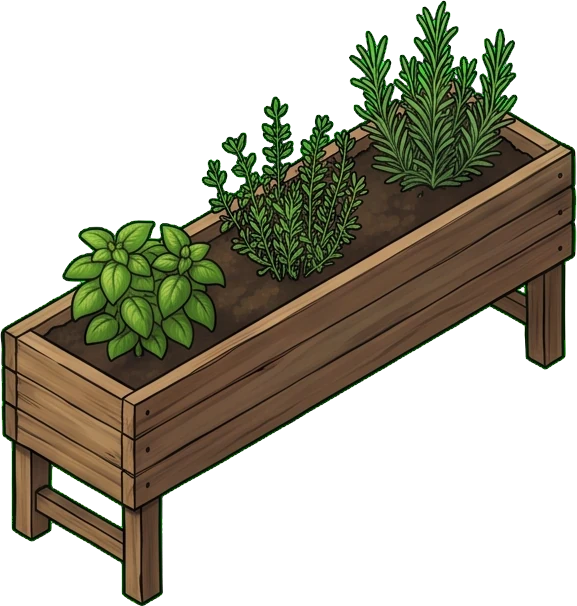
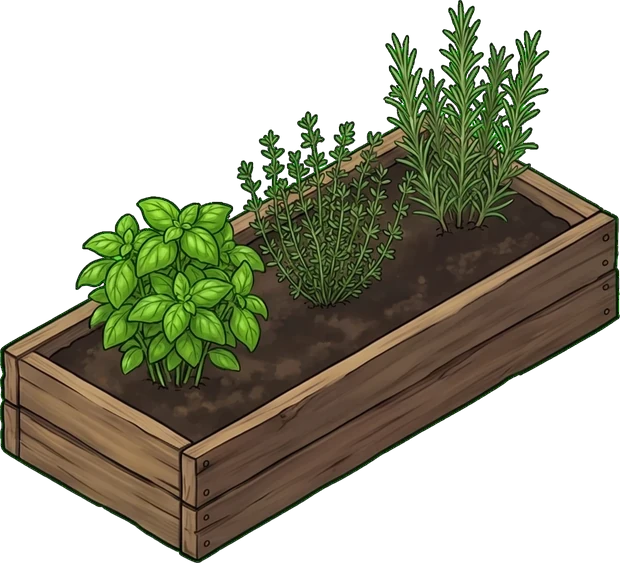
Garden (Cal, v0.73 phone): the herb plot is now the same low wooden bed as the tomato bed, planted with basil, thyme and rosemary (wet and dry art, fit to the same box); at night the shade of outdoor rooms covered only the back half of the floor (the outline left out the front corner), the 'divide' 

diff --git a/quest-board/app/src/20_loft.js b/quest-board/app/src/20_loft.js
@@ -128,7 +128,7 @@ function lfRoomLight(C,uid,t,out){
      instead of tinting a wall-high box of sky */
   var L=out?lfLS():lfInLS(C),N=LF.W,M=LF.D,H=C.noshell===2?(t==="rooftop"&&window.LFSPR&&LFSPR.rfw_t1?60:40):LF.H,U=29.07,res={pre:"",mid:"",post:""},defs="",R=(window.LFRID=(window.LFRID||0)+1),id=function(n){return "lf"+n+uid+"_"+R}/* Cal: shadows vanished for a moment after a buy; ids unique per render, so a repaint never points at filters being swapped out */;
   var floor=[lfP(0,0,0),lfP(N,0,0),lfP(N,M,0),lfP(0,M,0)];
-  var hexIn=out?[lfP(-.2,-.2,-8),lfP(N+.2,-.2,-8),lfP(N+.2,-.2,H+16),lfP(-.2,-.2,H+16),lfP(-.2,M+.2,H+16),lfP(-.2,M+.2,-8)]:C.rsW?[lfP(0,M,H),lfP(0,0,H),lfP(C.rsW,0,H),lfP(C.rsW,0,36),lfP(N,0,36),lfP(N,0,-15),lfP(N,M,-15),lfP(0,M,-15)]:[lfP(0,M,H),lfP(0,0,H),lfP(N,0,H),lfP(N,0,-15),lfP(N,M,-15),lfP(0,M,-15)];
+  var hexIn=out?/* Cal (Garden at night): "a weird divide between the dark and light parts": this outline left out the front floor corner, so the night shade stopped on a straight line across the lawn */[lfP(N+.2,-.2,-8),lfP(N+.2,M+.2,-8),lfP(-.2,M+.2,-8),lfP(-.2,M+.2,H+16),lfP(-.2,-.2,H+16),lfP(N+.2,-.2,H+16)]:C.rsW?[lfP(0,M,H),lfP(0,0,H),lfP(C.rsW,0,H),lfP(C.rsW,0,36),lfP(N,0,36),lfP(N,0,-15),lfP(N,M,-15),lfP(0,M,-15)]:[lfP(0,M,H),lfP(0,0,H),lfP(N,0,H),lfP(N,0,-15),lfP(N,M,-15),lfP(0,M,-15)];
   var hs=lfHull(floor.concat([lfP(0,0,64),lfP(N,0,64),lfP(N,M,64),lfP(0,M,64)]));
   defs+='<clipPath id="'+id("cf")+'"><polygon points="'+floor.map(lfPt).join(" ")+'"/></clipPath><clipPath id="'+id("ci")+'"><polygon points="'+hs.map(lfPt).join(" ")+'"/></clipPath><clipPath id="'+id("hx")+'"><polygon points="'+hexIn.map(lfPt).join(" ")+'"/></clipPath>';
   /* source: sun or moon */
@@ -193,20 +193,21 @@ function lfRoomLight(C,uid,t,out){
     var gk=(src&&src.sun?kk*.5:0)+L.dark*.18*(L.wx==="rain"?.5:1)+(1-L.dark)*(1-L.direct)*.08,gc=src&&src.sun?src.col:(L.dark>.5?"#7f93ff":"#e8f0ff");
     var gid=id("wg"+Math.floor(x0*10));defs+='<radialGradient id="'+gid+'"><stop offset="0" stop-color="'+gc+'" stop-opacity=".9"/><stop offset="1" stop-color="'+gc+'" stop-opacity="0"/></radialGradient>';
     wl+=lfFaceY(x0-.5,0,100,'<ellipse cx="'+(.5*U+26)+'" cy="40" rx="64" ry="66" fill="url(#'+gid+')" opacity="'+lfCl(gk,0,.7).toFixed(2)+'"/>')})}
-  /* ambient multiply with lamp holes */
+  /* ambient multiply with lamp holes. Cal (v0.73 phone, Garden Estate at night): "a weird divide between the dark and light
+     parts": the dark layer was a fixed 1400x1000 box, smaller than the big rooms, so past its edge the floor stayed lit */
   var amb="";
   var hole=function(Ls){return Ls.map(function(q,i){var p=lfP(q[0],q[1],0),pz=lfP(q[0],q[1],q[2]||60),r=q[4]||3,k=lfCl((q[5]||.6)*(.35+L.dark*1.1),0,1);
     var gid=id("lh"+i);defs+='<radialGradient id="'+gid+'"><stop offset="0" stop-color="#000" stop-opacity="1"/><stop offset=".55" stop-color="#000" stop-opacity=".5"/><stop offset="1" stop-color="#000" stop-opacity="0"/></radialGradient>';
     return '<ellipse cx="'+p[0].toFixed(1)+'" cy="'+p[1].toFixed(1)+'" rx="'+(r*U*.95).toFixed(1)+'" ry="'+(r*U*.5).toFixed(1)+'" fill="url(#'+gid+')" opacity="'+k.toFixed(2)+'"/><circle cx="'+pz[0].toFixed(1)+'" cy="'+pz[1].toFixed(1)+'" r="'+(r*U*.45).toFixed(1)+'" fill="url(#'+gid+')" opacity="'+(k*.8).toFixed(2)+'"/>'}).join("")};
   if(L.mul!=="#ffffff"){
-    defs+='<mask id="'+id("am")+'" maskUnits="userSpaceOnUse" x="-500" y="-400" width="1400" height="1000"><rect x="-500" y="-400" width="1400" height="1000" fill="#fff"/>'+(L.dark>.12?hole(lights):"")+'</mask>';
-    amb='<g clip-path="url(#'+id("hx")+')" pointer-events="none" style="mix-blend-mode:multiply"><rect x="-500" y="-400" width="1400" height="1000" fill="'+(out?L.mul:lfMix(L.mul,"#a69fc4",L.dark*.62))+'" mask="url(#'+id("am")+')"/></g>';
+    defs+='<mask id="'+id("am")+'" maskUnits="userSpaceOnUse" x="-4000" y="-3000" width="10000" height="8000"><rect x="-4000" y="-3000" width="10000" height="8000" fill="#fff"/>'+(L.dark>.12?hole(lights):"")+'</mask>';
+    amb='<g clip-path="url(#'+id("hx")+')" pointer-events="none" style="mix-blend-mode:multiply"><rect x="-4000" y="-3000" width="10000" height="8000" fill="'+(out?L.mul:lfMix(L.mul,"#a69fc4",L.dark*.62))+'" mask="url(#'+id("am")+')"/></g>';
   }
   /* lamp glows (screen) */
   if(L.dark>.1||L.golden>.2){lights.forEach(function(q,i){var p=lfP(q[0],q[1],q[2]||60),pf=lfP(q[0],q[1],0),r=q[4]||3,k=lfCl((q[5]||.6)*(.25+L.dark*1.05),0,1)*(q[3]==="none"?0:1);
     var gid=id("lg"+i);defs+='<radialGradient id="'+gid+'"><stop offset="0" stop-color="'+q[3]+'" stop-opacity=".85"/><stop offset=".5" stop-color="'+q[3]+'" stop-opacity=".25"/><stop offset="1" stop-color="'+q[3]+'" stop-opacity="0"/></radialGradient>';
     gl+='<ellipse cx="'+pf[0].toFixed(1)+'" cy="'+pf[1].toFixed(1)+'" rx="'+(r*U*.9).toFixed(1)+'" ry="'+(r*U*.45).toFixed(1)+'" fill="url(#'+gid+')" opacity="'+(k*.55).toFixed(2)+'"/><circle cx="'+p[0].toFixed(1)+'" cy="'+p[1].toFixed(1)+'" r="'+(r*U*.4).toFixed(1)+'" fill="url(#'+gid+')" opacity="'+(k*.5).toFixed(2)+'"/>'})}
-  var flash=(LFW.storm&&L.wx==="rain")?'<g clip-path="url(#'+id("hx")+')" pointer-events="none"><rect x="-500" y="-400" width="1400" height="1000" fill="#dfe8ff" class="lfflash" style="mix-blend-mode:screen"/></g>':"";
+  var flash=(LFW.storm&&L.wx==="rain")?'<g clip-path="url(#'+id("hx")+')" pointer-events="none"><rect x="-4000" y="-3000" width="10000" height="8000" fill="#dfe8ff" class="lfflash" style="mix-blend-mode:screen"/></g>':"";
   res.post='<g class="lflt" pointer-events="none">'+amb+'<g clip-path="url(#'+id("hx")+')" style="mix-blend-mode:screen">'+gl+wl+'</g>'+flash+'</g>';
   res.defs='<defs>'+defs+'</defs>';
   return res;

diff --git a/quest-board/app/src/22_garden.js b/quest-board/app/src/22_garden.js
@@ -84,7 +84,7 @@ function gdS(C,k,x,y,w,d,h,o){return lfSpr(C,k,x,y,w,d,Object.assign({h:h,ctr:1}
 /* Cal: the beds sat at a steeper angle than the room. Each bed's top face (t back, r right, l left corner, as fractions of
    the MIRRORED art, and rim, its side height) is mapped exactly onto its footprint, so every bed lines up with the walls. */
 var GDFIT={gdx_seed:{t:[.33,.03],r:[.99,.66],l:[.01,.37],rim:.03},gdx_raised:{t:[.31,.12],r:[.995,.585],l:[.005,.305],rim:.21},
-  gdx_tomato:{t:[.31,.27],r:[.995,.65],l:[.005,.44],rim:.17},gdx_herb:{t:[.25,.13],r:[.995,.57],l:[.005,.25],rim:.31},
+  gdx_tomato:{t:[.31,.27],r:[.995,.65],l:[.005,.44],rim:.17},gdx_herb:{t:[.31,.2],r:[.995,.616],l:[.005,.387],rim:.186}/* Cal: "the same type of plot as the others": the tomato bed's box, planted with herbs (its box geometry, offset for the shorter plants) */,
   gd_bed1:{t:[.33,.12],r:[.995,.55],l:[.005,.35],rim:.22},gd_bed2:{t:[.33,.03],r:[.995,.48],l:[.005,.26],rim:.26},
   gd_berry:{t:[.53,.08],r:[.995,.47],l:[.005,.33],rim:.26,w:2.2}};
 /* a grow light along a bed, drawn on the room's own grid: two thin posts, an LED bar down the middle, a violet wash */
